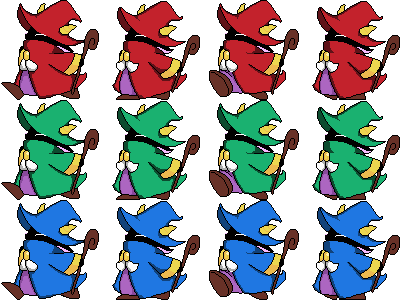
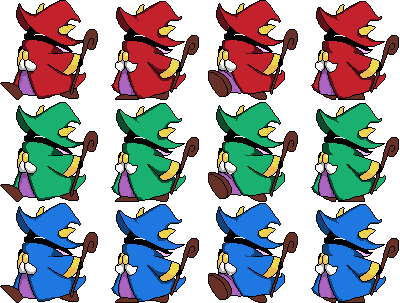
画像修正

diff --git a/GFF_Swapper/Object/Player.h b/GFF_Swapper/Object/Player.h
@@ -26,10 +26,10 @@ static char player_imagepath[PLAYER_STATE_NUM][256] =
 //アニメーション画像枚数、横枚数、縦枚数、横大きさ、縦大きさ、アニメーション回転速度(0はアニメーションではない事を示す)
 static int player_anim_image_num[PLAYER_STATE_NUM][6]
 {
-	{12,4,3,85,100,5},
-	{12,4,3,85,100,5},
-	{12,4,3,100,100,5},
-	{12,4,3,100,100,5},
+	{12,4,3,85,101,5},
+	{12,4,3,85,101,5},
+	{12,4,3,100,101,5},
+	{12,4,3,100,101,5},
 	{3,3,1,100,100,0},
 	{3,3,1,100,100,0},
 	{3,3,1,100,100,0},
